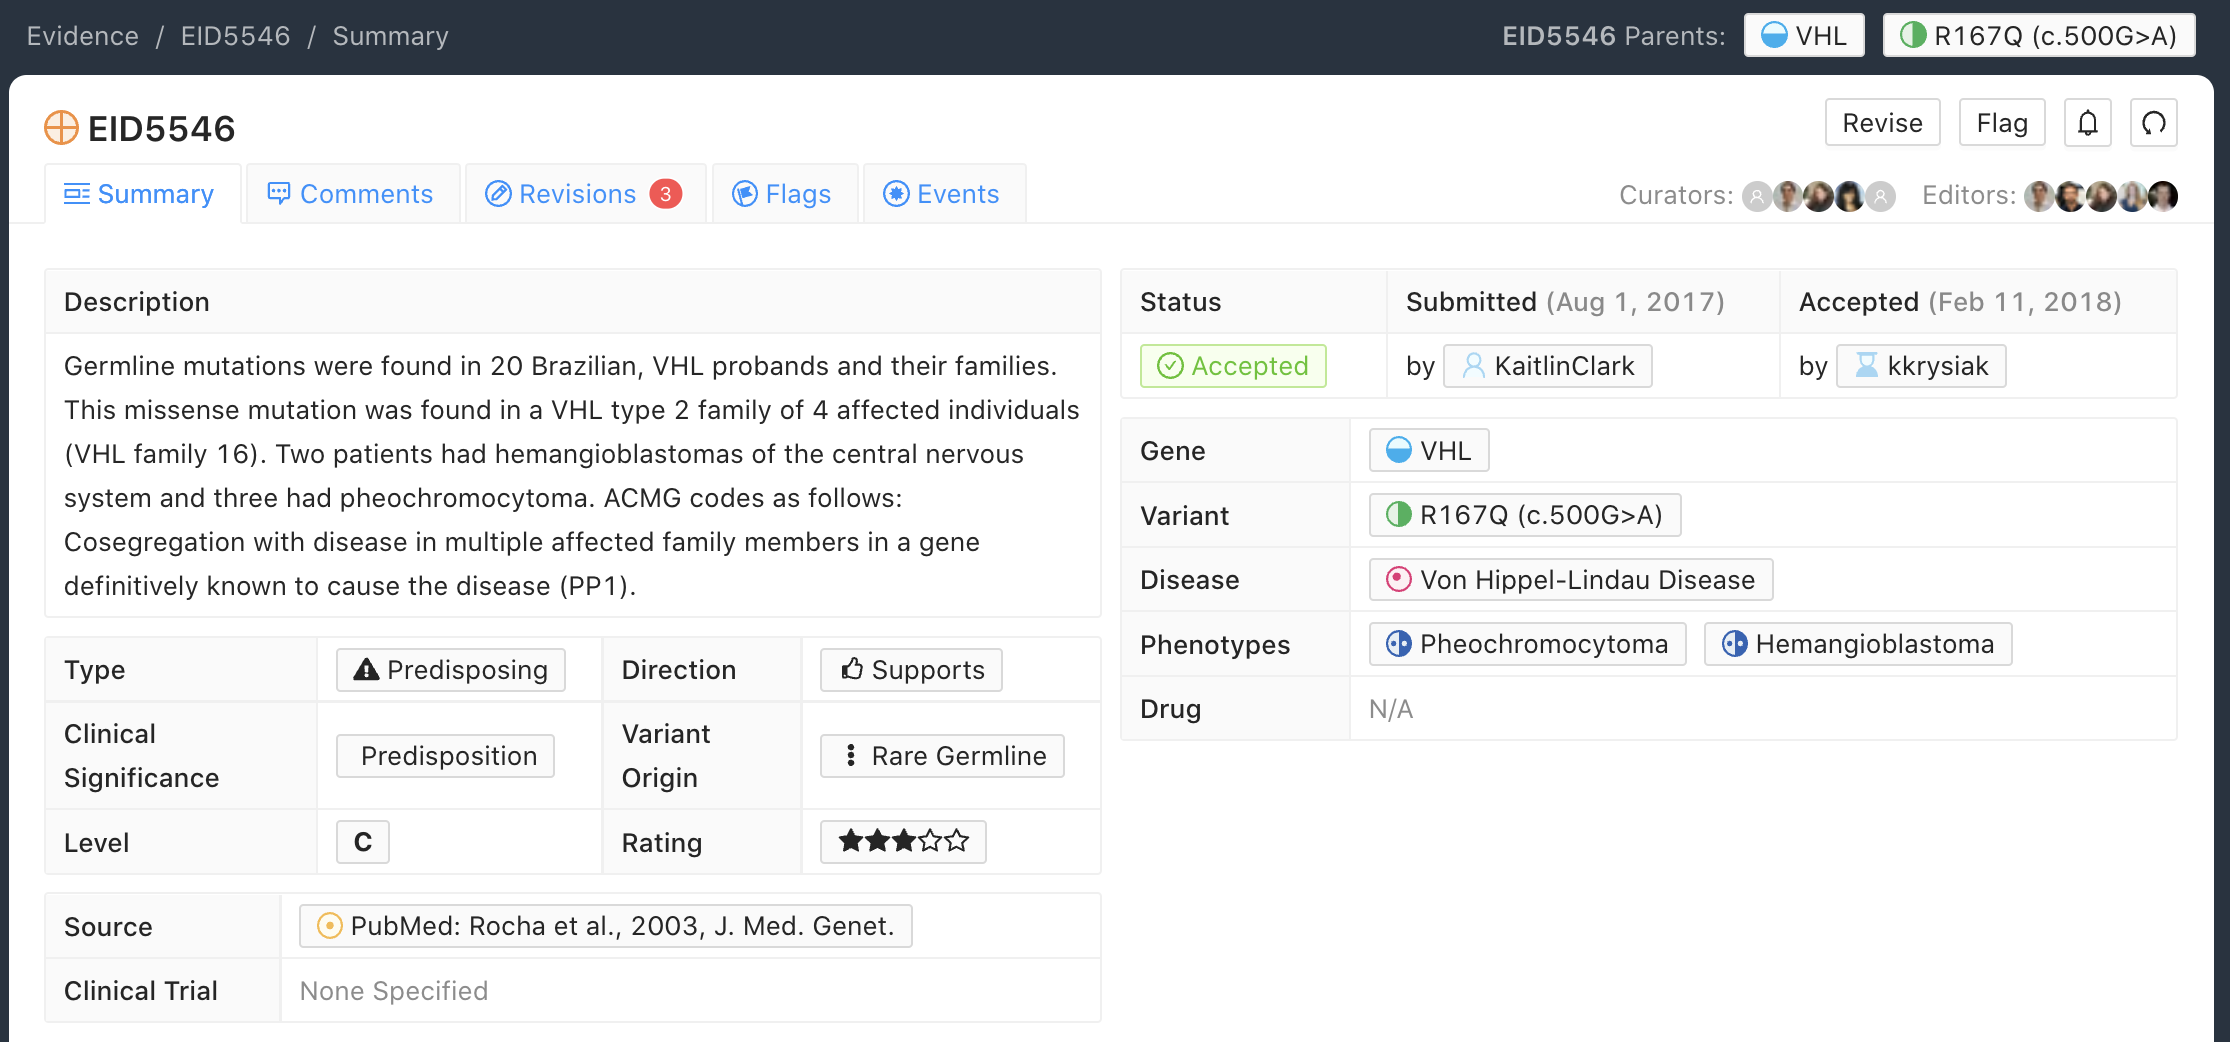
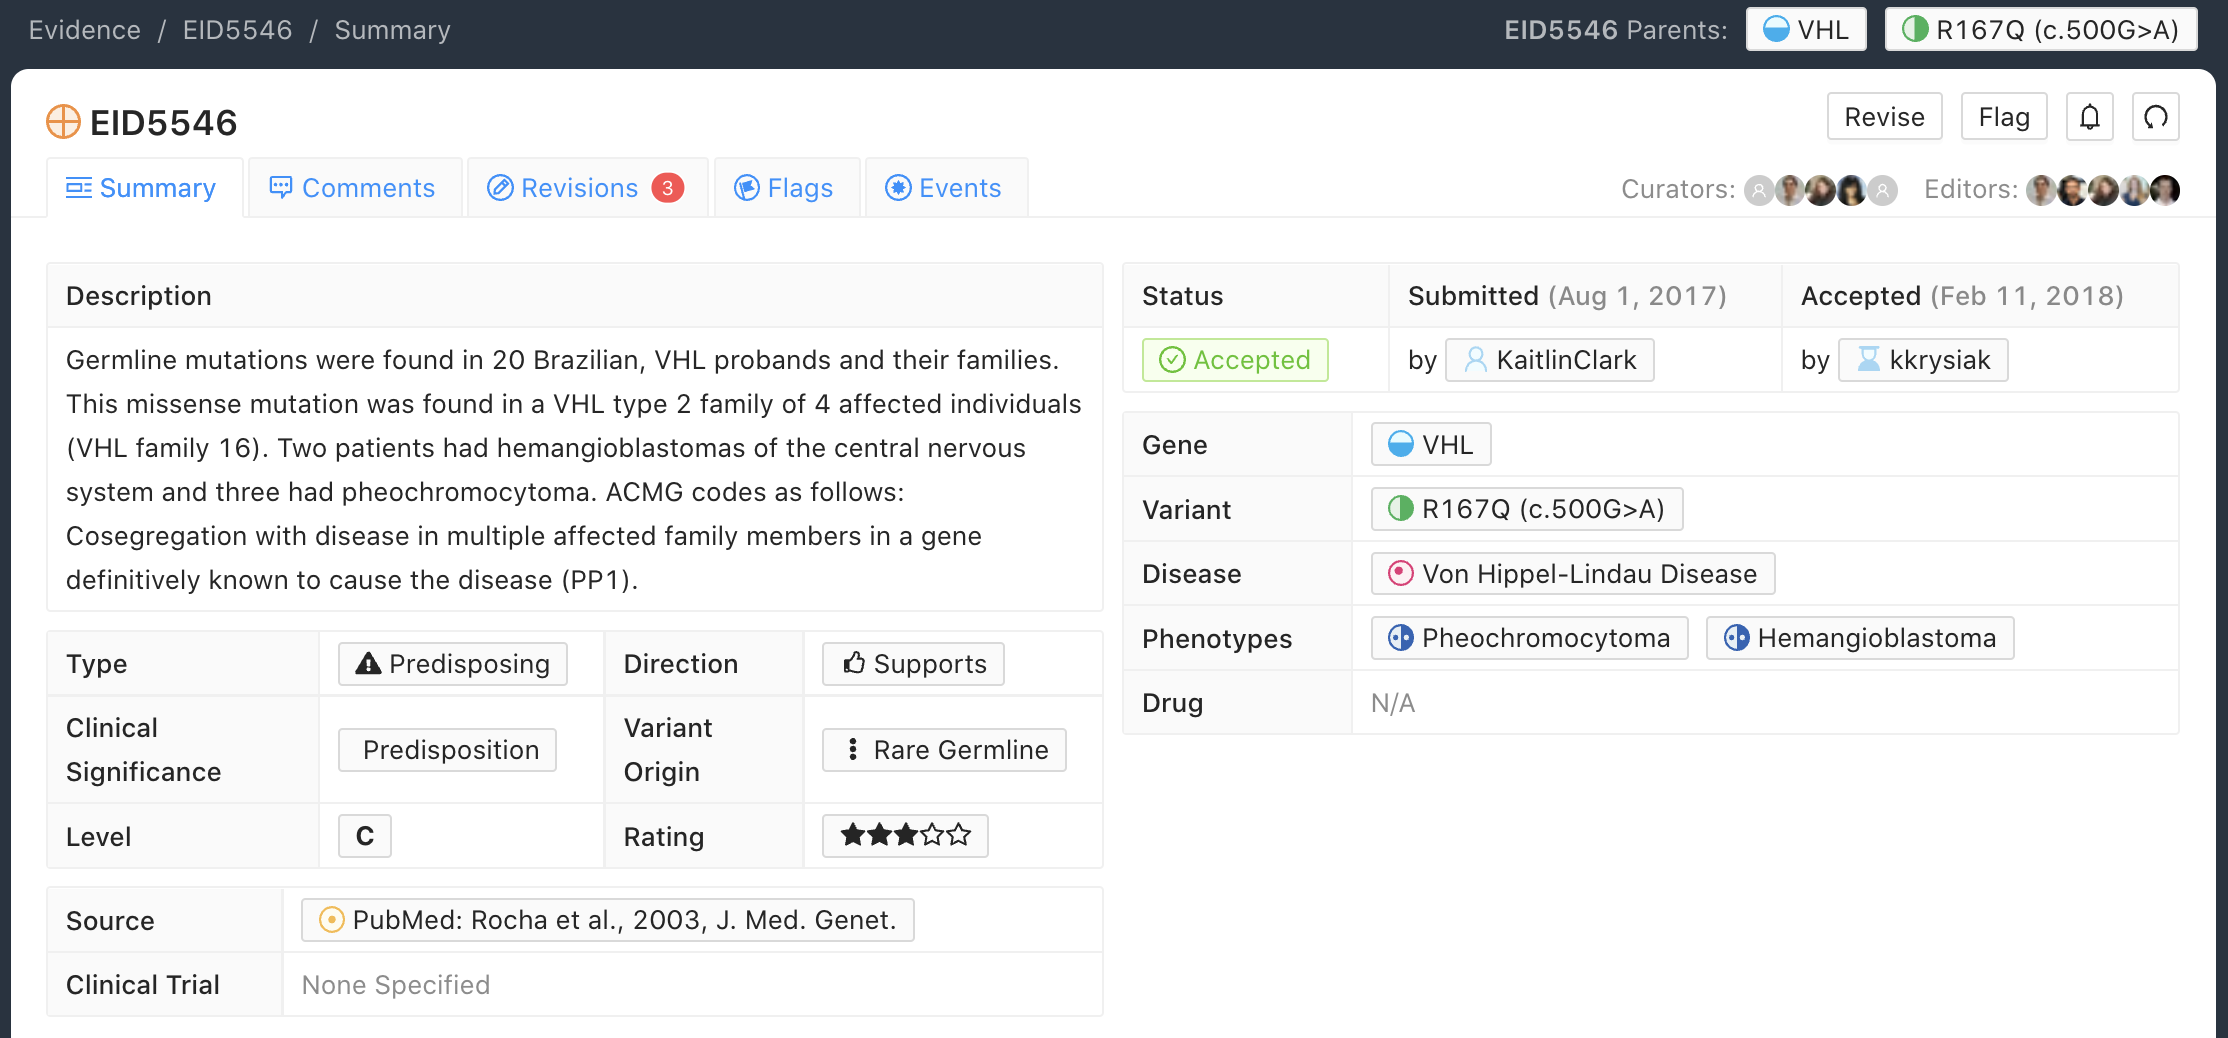
Updating screenshots to follow standard imaging naming and be taller / more legible in the docs

diff --git a/docs/curating/evidence.rst b/docs/curating/evidence.rst
@@ -142,7 +142,7 @@ As mentioned above, the Predisposing Evidence Type may utilize `ACMG/AMP Codes <
 Below is an example of an Evidence Item (`EID5546 <https://civicdb.org/links/evidence/5546>`__) that describes a Predisposing Evidence Type (Figure 10) that Supports a clinical significance of Predisposition. This example describes a study where the VHL - R167Q (c.500G>A) Variant was described in a set of patients and evidence for the PP1 ACMG-AMP criteria was documented. Hemangioblastoma and pheochromocytoma were seen in patients and are reported as Associated Phenotypes, while the Disease is Von Hippel-Lindau Disease.
 
 
-.. figure:: /images/figures/predisposing-evidence-summary.png
+.. figure:: /images/figures/evidence-summary_EID5546.png
    :alt: Predisposing evidence summary.
 
    Figure 10: Screenshot of a Predisposing Evidence Item that supports predisposition, suggesting a potentially pathogenic variant, supported by a specific ACMG pathogenicity criteria/code
@@ -172,7 +172,7 @@ The Oncogenic Clinical Significance is used to capture evidence supporting an on
 
 Below is an example of an Evidence Item with an Oncogenic Evidence Type (Figure 12). This EID describes a study wherein KRAS Q61H was transfected into cells resulting in multilayered growth indicative of a loss of contact inhibition. Oncogenicity code OS2 is noted in the Evidence Statement, since the EID describes a well established in vitro experiment (focus formation assay), which supports an oncogenic effect for this variant.
 
-.. figure:: /images/figures/oncogenic-evidence-summary.png
+.. figure:: /images/figures/evidence-summary_EID7936.png
    :alt: Screenshot of an Oncogenic Evidence Item summary with Oncogenicity Code in Comment
 
    Figure 12: Screenshot of an Oncogenic Evidence Item summary with Oncogenicity Code in Comment
